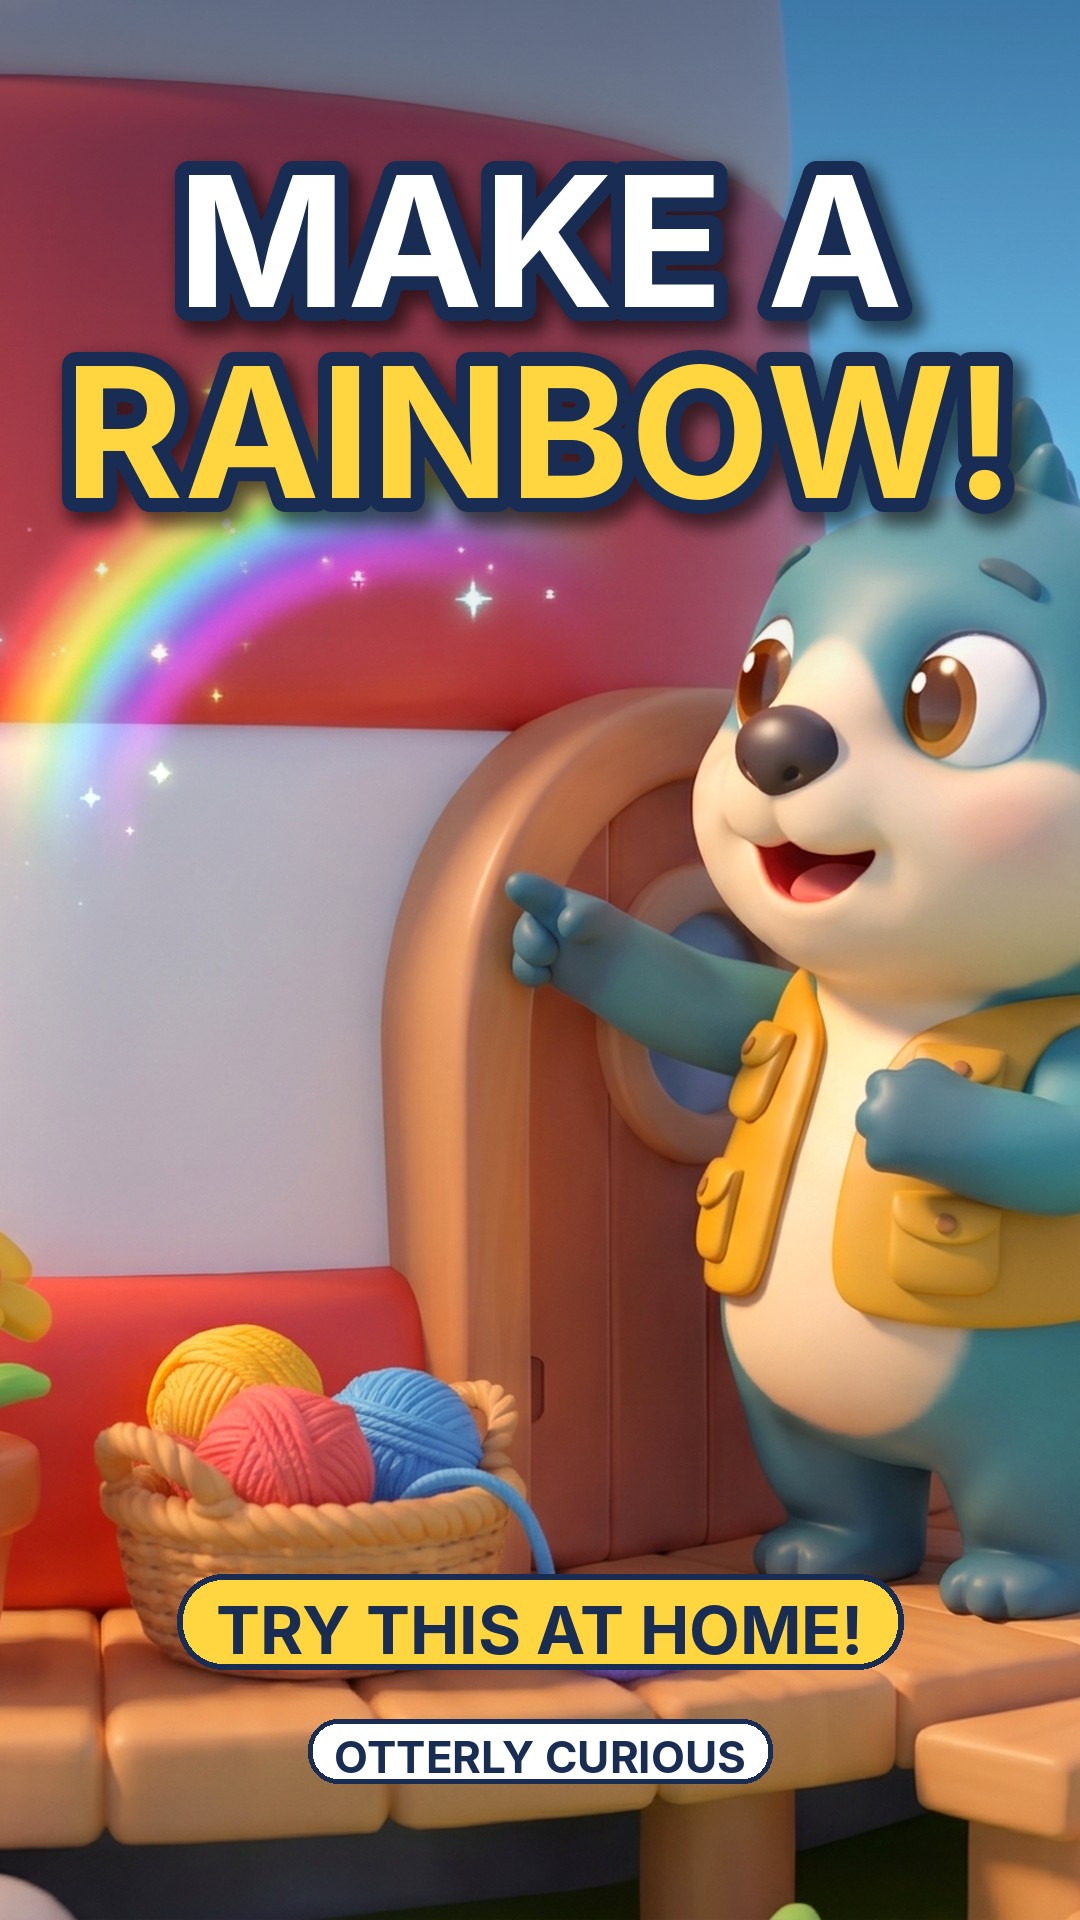
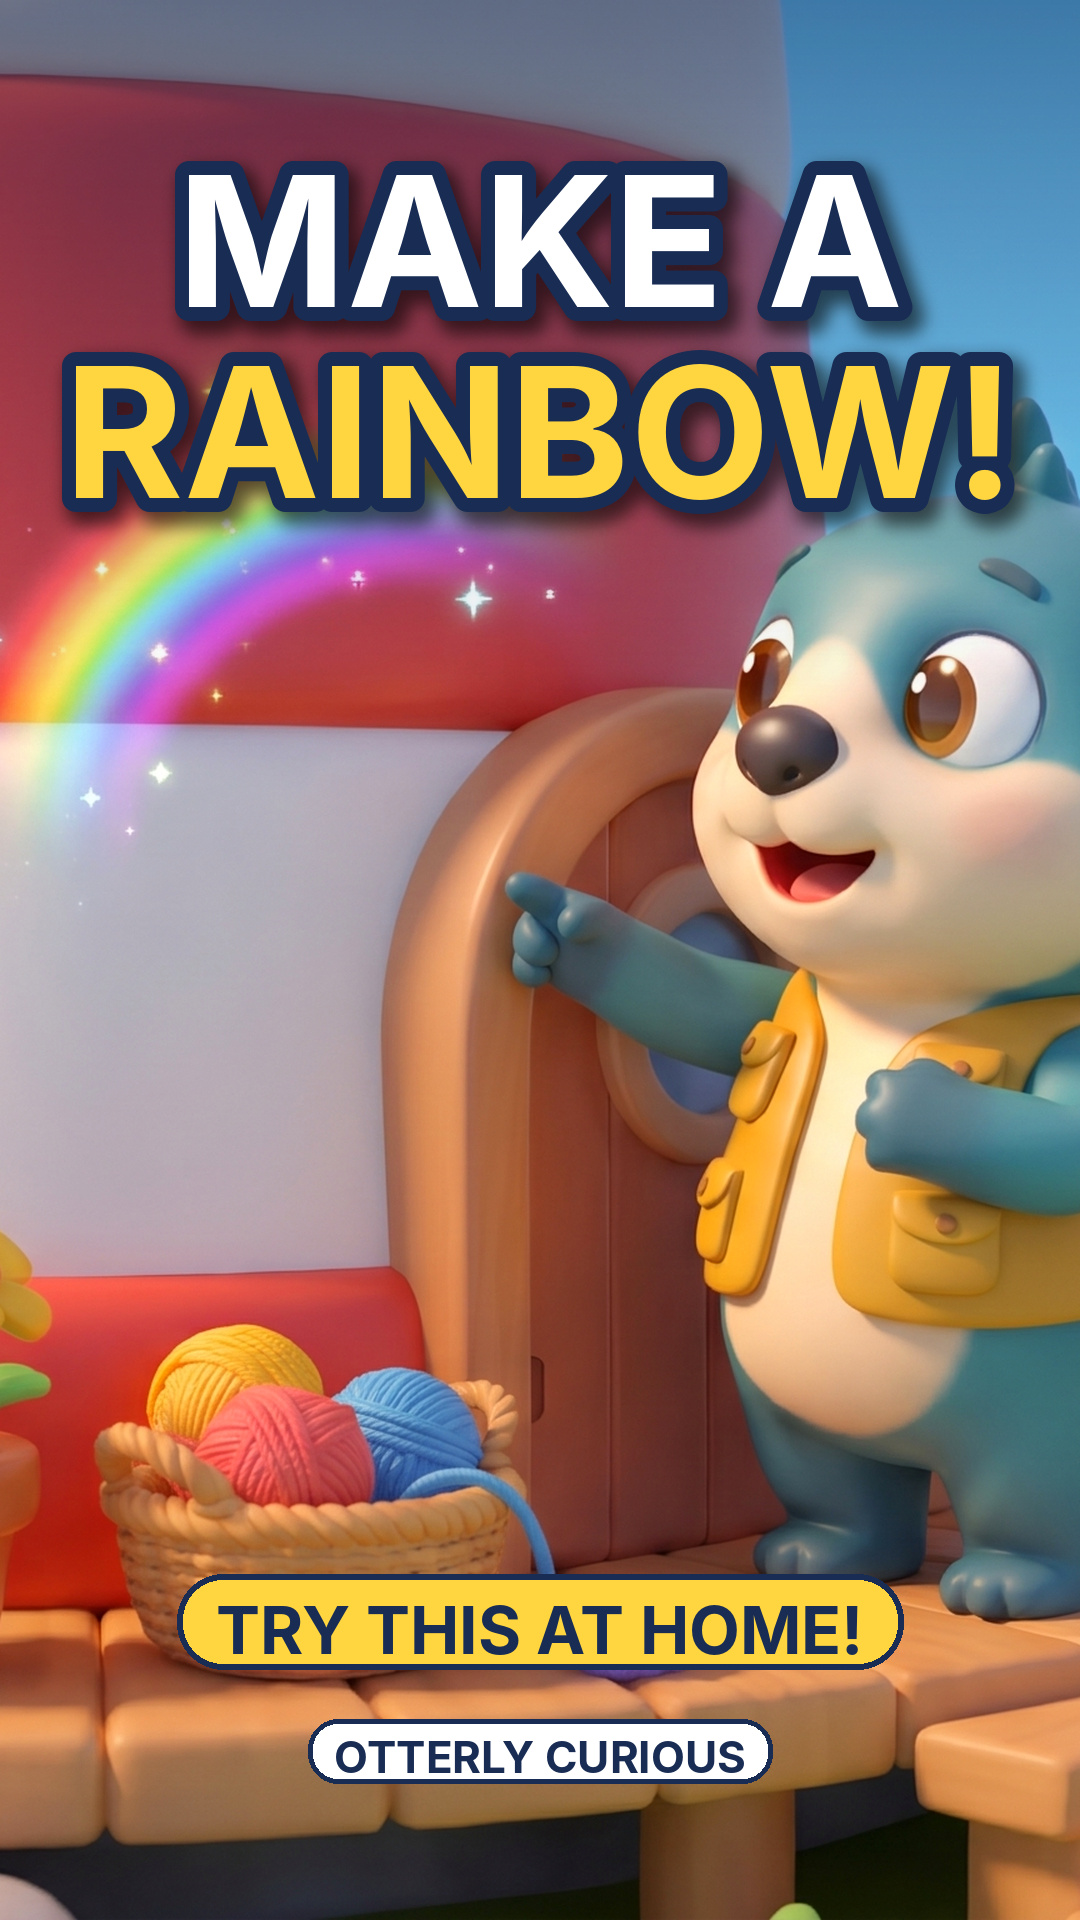
High-quality JPEG exports of all thumbnails
Claude-Session: https://claude.ai/code/session_01NmTphCuSw39h3zJsvDrwRi

diff --git a/channel/make_demo_thumbs.py b/channel/make_demo_thumbs.py
@@ -58,5 +58,5 @@ for ep, (shot, cx, lines, zoom) in SPEC.items():
     pill(im, "TRY THIS AT HOME!", H - 330, 66, YEL + (255,), 6)
     pill(im, "OTTERLY CURIOUS", H - 190, 44, (255, 255, 255, 235), 5)
     im = im.convert("RGB")
-    im.save(OUT / f"{ep}_short_demo_thumb.jpg", "JPEG", quality=90, optimize=True)
+    im.save(OUT / f"{ep}_short_demo_thumb.jpg", "JPEG", quality=95, subsampling=0, optimize=True)
     print(ep, (OUT / f"{ep}_short_demo_thumb.jpg").stat().st_size)
